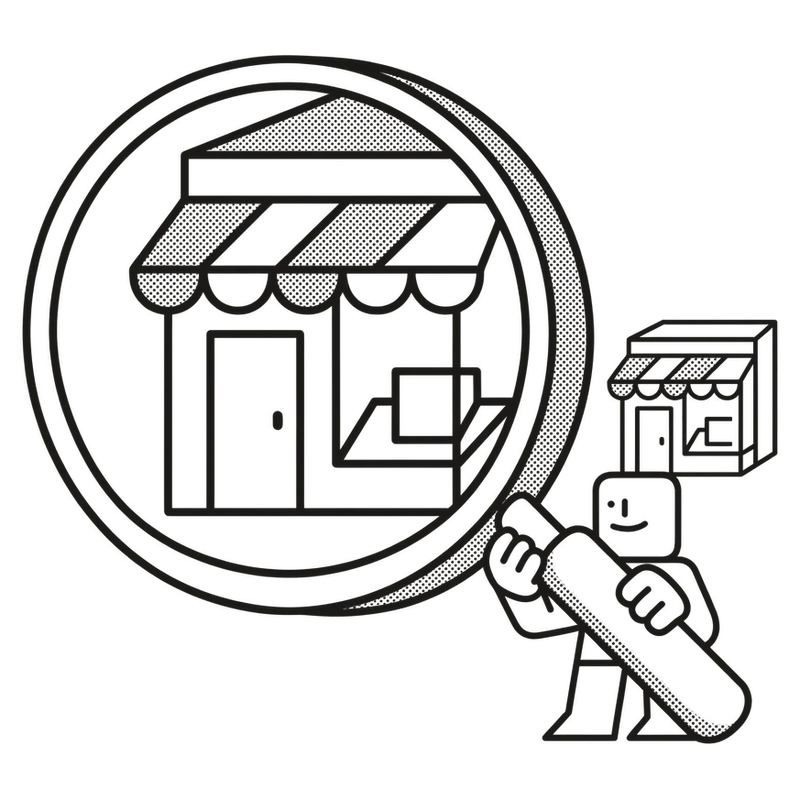
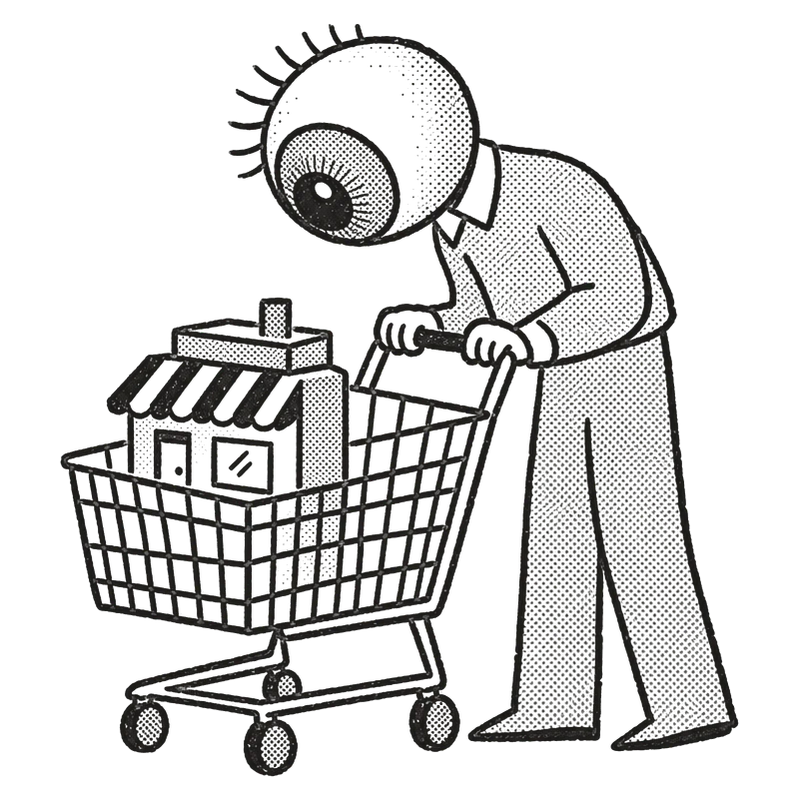
feat(audit): the three steps redrawn absurd and hand-inked (JP's references)
A shop on legs climbing into a mailbox, a shopper with an eye for a head inspecting a shop in his
cart, a phone in a bowler hat ringing the doorbell with the play button as a gift. GPT Image via
Higgsfield, brush-pen line and halftone, ink on transparent.

diff --git a/client/src/content/siteCopy.ts b/client/src/content/siteCopy.ts
@@ -431,12 +431,12 @@ export const siteCopy = {
       updatedMinutes: "Updated a few minutes ago",
       resets: "Five new spots every Monday",
     },
-    // Three drawn steps (Higgsfield, after JP's references: thick even line, halftone fills, geometric characters), one line each.
+    // Three drawn steps (Higgsfield GPT Image, after JP's references, 2026-11-07: absurd, hand-inked, halftone), one line each.
     howTitle: "How it works",
     steps: [
-      { src: "/audit/landing/step-1.webp", alt: "A brand going into an envelope", line: "You send me your website or your Instagram." },
-      { src: "/audit/landing/step-2.webp", alt: "A character looking at a brand through a magnifying glass", line: "I look at it the way a customer does. I start with what I like, but then I tell you what I'd change, in order." },
-      { src: "/audit/landing/step-3.webp", alt: "A video arriving on a screen", line: "You get the video: what works, what doesn't, and what I'd fix first. Sometimes we fix a couple of things along the way. If you don't need a studio yet, I'll say so." },
+      { src: "/audit/landing/step-1.webp", alt: "A little shop with human legs climbing into a mailbox", line: "You send me your website or your Instagram." },
+      { src: "/audit/landing/step-2.webp", alt: "A shopper whose head is one big eye, inspecting a little shop in his cart", line: "I look at it the way a customer does. I start with what I like, but then I tell you what I'd change, in order." },
+      { src: "/audit/landing/step-3.webp", alt: "A phone with legs and a bowler hat ringing a doorbell, holding a play button as a gift", line: "You get the video: what works, what doesn't, and what I'd fix first. Sometimes we fix a couple of things along the way. If you don't need a studio yet, I'll say so." },
     ],
     formTitle: "Send me your brand",
     fit: "Any brand that's live works: a shop, a restaurant, a product, an app. If you look at it and say, hey, something is off but I don't know what, send it.",

diff --git a/client/src/styles/site.css b/client/src/styles/site.css
@@ -1201,7 +1201,7 @@ html[data-consent="open"] .site-explore { display: none; }
 .audit-steps { display: grid; gap: var(--space-6); margin: 0; padding: 0; list-style: none; }
 .audit-step { display: grid; grid-template-rows: auto 1fr; align-items: start; gap: var(--space-3); }
 /* Ink on transparent: the drawing sits on the paper, and in dark mode the ink turns to paper. */
-.audit-step__art { display: block; width: 100%; max-width: 280px; height: auto; aspect-ratio: 1; object-fit: contain; object-position: center; }
+.audit-step__art { display: block; width: 100%; max-width: 280px; height: auto; aspect-ratio: 1; object-fit: contain; object-position: bottom; }
 @media (prefers-color-scheme: dark) { .audit-step__art { filter: invert(1) hue-rotate(180deg); } }
 .audit-step__line { margin: 0; max-width: 32ch; font-size: var(--t-body); line-height: var(--lh-body); text-wrap: pretty; }
 @media (min-width: 640px) { .audit-steps { grid-template-columns: repeat(3, minmax(0, 1fr)); gap: var(--space-5); } .audit-step__art { max-width: none; } }
